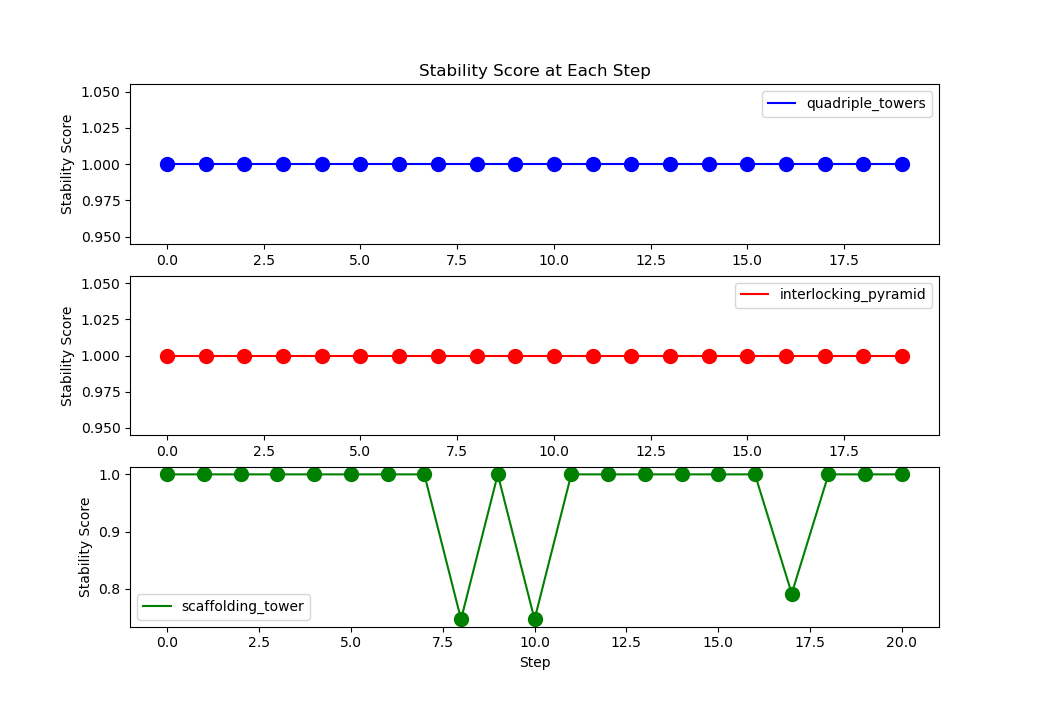
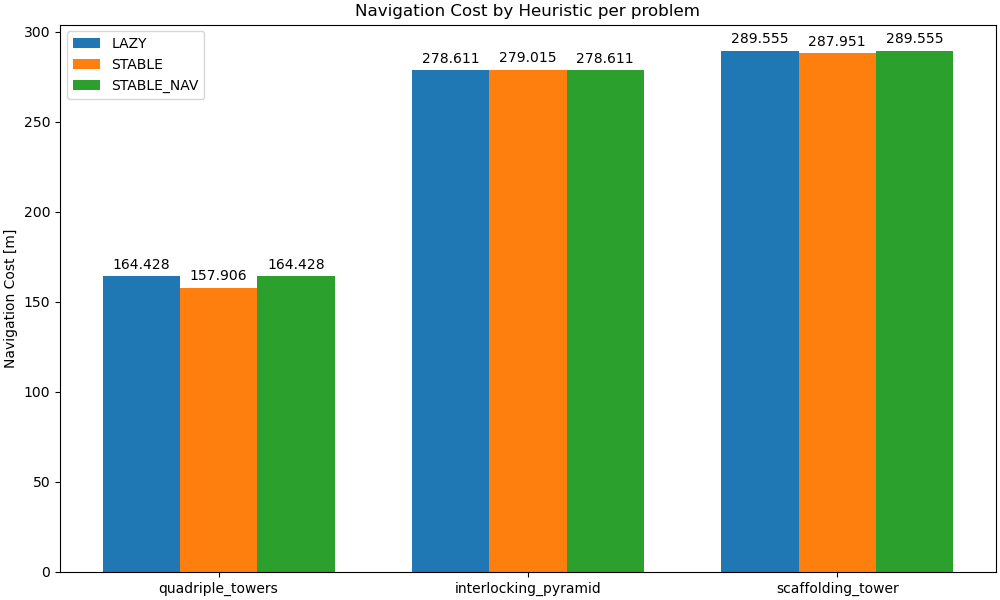
Fix test by actually using different heuristics lol.

diff --git a/modular_construction_task_planner/modular_construction_task_planner/scripts/ordered_landmarks_planner.py b/modular_construction_task_planner/modular_construction_task_planner/scripts/ordered_landmarks_planner.py
@@ -526,6 +526,7 @@ class OrderedLandmarksPlanner:
                     cost = (1 - support_score)
                     cost += np.linalg.norm(np.array(transit_start_pos) - np.array(transit_target_pos)).item() * 0.8
                     cost += np.linalg.norm(np.array(transit_target_pos) - np.array(goal_pos)).item() * 0.8
+                    # print(f"Stable nav heuristic cost breakdown for object {obj_entity.name}: support cost {(1 - support_score)}, total cost: {cost}")
                 case HEURISTIC.SIMPLE_COLLISION:
                     cost = self.simple_collision_heuristic(transit_start_pos, transit_target_pos)
                     cost += self.simple_collision_heuristic(transit_target_pos, goal_pos)

diff --git a/modular_construction_task_planner/modular_construction_task_planner/scripts/test_stable_planner.py b/modular_construction_task_planner/modular_construction_task_planner/scripts/test_stable_planner.py
@@ -49,7 +49,6 @@ def main(problem_name:str = "scaffolding_tower", show: bool = False, animate: bo
     supp_res = ([], 0, 0)  # Initialize with empty scores
     cost = np.nan
     block_sequences = []
-    h = HEURISTIC.STABLE
     planner = OrderedLandmarksPlanner(world, action_dict)
     goal_linked_state = planner.run_stable_planner(support_graph, ground_mesh, h)
     # goal_linked_state = planner.run_heuristic_planner(h)
